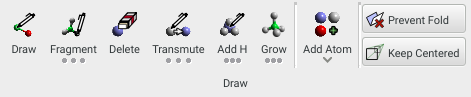
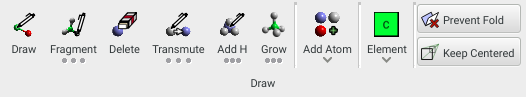
Added buckytube example, and updated build panel.

diff --git a/doc/95.examples/buckytube/buckytube.md b/doc/95.examples/buckytube/buckytube.md
@@ -1,0 +1,232 @@
+---
+title: Buckytube Builder
+brief: Script to generate graphene tubes
+taxonomy:
+  category: docs
+  example: [scripting, building, dialogs]
+visible: true
+template: manpage
+docroot: /aten/docs
+header_class: alt
+---
+
+The script below generates a graphene tube (a "Buckytube", if you will) of some user-defined length and radius. We'll walk through each of the sections of the script in turn (the script is presented in its entirety at the end of the page, and can be found in the example scripts directory included with **Aten**).
+
+## Defining User Options
+
+```aten
+# Create an options dialog
+void createDefaultDialog(Dialog ui)
+{
+        Widget w;
+
+        # Set title and vertical automatic filling of main dialog layout
+        ui.title = "Bucky Tubulator";
+
+	# Basic controls
+	ui.verticalFill = TRUE;
+	ui.addIntegerSpin("nBenzeneSpin", "Number of benzenes around circumference", 4, 1000, 1, 10);
+	ui.addIntegerSpin("nStacksSpin", "Number of stacks along tube length", 1, 1000, 1, 10);
+	ui.addDoubleSpin("bondLengthSpin", "Benzene C-C bond length", 0.1, 100.0, 0.01, 1.39);
+	ui.addCheck("createModelCheck", "Create new model", 1);
+}
+```
+
+Firstly, before we do anything else, we define a function called [`createDefaultDialog()`](/aten/docs/scripting/commands/messaging#createdefaultdialog) which sets up a few controls that will allow the user to control the dimensions of the generated tube. The name of this function is important, since it is one that **Aten** looks for in each script to determine if a general options dialog is present (see [Creating User Dialogs](/aten/docs/topics/dialogs) for more information). We define a couple of 'spin boxes' that will give control over the number of benzene subunits along the length and circumference of the tube, as well as allow the C-C bond length used to be changed. Finally, a checkbox gives the option to create a new model to contain the generated tube (or just to add it to the current model).
+
+## Show the Options
+
+Defining the options and their controls is one thing, but they must be presented to the user! This is achieved by calling the [`showDefaultDialog()`](/aten/docs/scripting/commands/messaging#showdefaultdialog) function, which shows the controls defined in the [`createDefaultDialog()`](/aten/docs/scripting/commands/messaging#createdefaultdialog) function above.
+
+Once shown, and if accepted, we then proceed to extract the necessary control values into some local variables we will use in the rest of the script. First, we get the reference to the dialog itself by calling the [`defaultDialog()`](/aten/docs/scripting/commands/messaging#defaultdialog) and then grab the other values we need, simply by calling the relevent `as*()` function of the dialog, and giving the name of the control from which we want to extract (and convert) the value.
+
+```aten
+# Show (execute) the dialog to allow user interaction.
+# The function returns 0 for 'canceled' or '1' for 'ok'
+if (!showDefaultDialog()) error("Dialog canceled.\n");
+
+# Get widget values
+Dialog ui = defaultDialog();
+int nbenz = ui.asInteger("nBenzeneSpin");
+int nstacks = ui.asInteger("nStacksSpin");
+double rcc = ui.asDouble("bondLengthSpin");
+```
+
+## Preparation
+
+Before we start creating our tube, we'll declare some variables and, if it was requested, create a new model for the tube to live in. Since we have made it an option whether to use the current model or create a new one, we use a [**Model**](/aten/docs/scripting/variabletypes/model) to store the reference to the target, and call all the drawing functions through it instead of using the global functions (see [Building Commands](/aten/docs/scripting/commands/building)).
+
+```aten
+int loop, benz;
+Atom hAtom;
+
+// Calculate rotation increment around circumference
+double dz = 360.0/(nbenz*2.0)
+
+# Create / get target model
+Model targetModel;
+if (ui.asInteger("createModelCheck")) targetModel = newModel("BuckyTube");
+else targetModel = aten.frame;
+if (!targetModel) error("No valid target model.\n");
+
+# Clear the current selection, ready for the main loop
+targetModel.selectNone();
+```
+
+## Main Loop
+
+We finally get to the main loop that will create our atoms. The tube is constructed by drawing one ring of 'zig-zagged' atoms at a time, then moving a step along the tube and rotating about z before drawing the next ring. The offset so created naturally forms the benzene motifs we need.
+
+Checks are made to see if we are at either extreme end of the tube, in which case a terminating hydrogen atom is bonded on to the associated carbon.
+
+```aten
+# Outer loop - loop over stacks
+for (loop=0; loop <= nstacks; ++loop)
+{
+	# Inner loop - loop over benzene molecules
+	for (benz=0; benz<nbenz; ++benz)
+	{
+		# If at beginning of tube, draw terminating H
+		if ((loop == 0) || (loop == nstacks))
+		{
+			targetModel.movePen(0, 0, -1);
+			targetModel.select(targetModel.newAtom(H));
+			targetModel.movePen(0, 0, 1);
+		}
+
+		# Draw and select first carbon
+		targetModel.select(targetModel.newAtom(C));
+
+		# Rotate pen and move around circumference
+		targetModel.movePen(rcc*cos(30), 0.0, rcc*sin(30));
+		targetModel.rotatePenZ(dz);
+
+		# If at end of tube, draw terminating H
+		if (loop == nstacks)
+		{
+			targetModel.movePen(0, 0, 1);
+			targetModel.select(targetModel.newAtom(H));
+			targetModel.movePen(0, 0, -1);
+		}
+
+		# Draw and select second carbon
+		targetModel.select(targetModel.newAtom(C));
+
+		# Rotate pen and move around circumference
+		targetModel.movePen(rcc*cos(30), 0, -rcc*sin(30));
+		targetModel.rotatePenZ(dz);
+	}
+	
+	# Move pen along tube length, and one step around circumference to offset next layer
+	targetModel.movePen(0, 0, rcc*1.5);
+	targetModel.movePen(rcc*cos(30), 0, 0);
+	targetModel.rotatePenZ(dz);
+}
+```
+
+## Cleanup
+
+To tidy up, we centre the current selection of atoms (which is every atom we have just drawn) at {0,0,0} and calculate bonding within that selection (since we did not draw any bonds along the way, only atoms).
+
+```aten
+# Centre the selection, rebond and augment
+targetModel.centreSelection(0.0, 0.0, 0.0);
+targetModel.rebondSelection();
+```
+
+![Bucktube Generator](buckytube.png){.imgfull}
+
+## Full Script
+
+File: [buckytube.txt](./buckytube.txt)
+
+```aten
+# Create an options dialog
+void createDefaultDialog(Dialog ui)
+{
+        Widget w;
+
+        # Set title and vertical automatic filling of main dialog layout
+        ui.title = "Bucky Tubulator";
+
+	# Basic controls
+	ui.verticalFill = TRUE;
+	ui.addIntegerSpin("nBenzeneSpin", "Number of benzenes around circumference", 4, 1000, 1, 10);
+	ui.addIntegerSpin("nStacksSpin", "Number of stacks along tube length", 1, 1000, 1, 10);
+	ui.addDoubleSpin("bondLengthSpin", "Benzene C-C bond length", 0.1, 100.0, 0.01, 1.39);
+	ui.addCheck("createModelCheck", "Create new model", 1);
+}
+
+# Show (execute) the dialog to allow user interaction.
+# The function returns 0 for 'canceled' or '1' for 'ok'
+if (!showDefaultDialog()) error("Dialog canceled.\n");
+
+# Get widget values
+Dialog ui = defaultDialog();
+int nbenz = ui.asInteger("nBenzeneSpin");
+int nstacks = ui.asInteger("nStacksSpin");
+double rcc = ui.asDouble("bondLengthSpin");
+
+int loop, benz;
+Atom hAtom;
+
+// Calculate rotation increment around circumference
+double dz = 360.0/(nbenz*2.0)
+
+# Create / get target model
+Model targetModel;
+if (ui.asInteger("createModelCheck")) targetModel = newModel("BuckyTube");
+else targetModel = aten.frame;
+if (!targetModel) error("No valid target model.\n");
+
+# Clear the current selection, ready for the main loop
+targetModel.selectNone();
+
+# Outer loop - loop over stacks
+for (loop=0; loop <= nstacks; ++loop)
+{
+	# Inner loop - loop over benzene molecules
+	for (benz=0; benz<nbenz; ++benz)
+	{
+		# If at beginning of tube, draw terminating H
+		if ((loop == 0) || (loop == nstacks))
+		{
+			targetModel.movePen(0, 0, -1);
+			targetModel.select(targetModel.newAtom(H));
+			targetModel.movePen(0, 0, 1);
+		}
+
+		# Draw and select first carbon
+		targetModel.select(targetModel.newAtom(C));
+
+		# Rotate pen and move around circumference
+		targetModel.movePen(rcc*cos(30), 0.0, rcc*sin(30));
+		targetModel.rotatePenZ(dz);
+
+		# If at end of tube, draw terminating H
+		if (loop == nstacks)
+		{
+			targetModel.movePen(0, 0, 1);
+			targetModel.select(targetModel.newAtom(H));
+			targetModel.movePen(0, 0, -1);
+		}
+
+		# Draw and select second carbon
+		targetModel.select(targetModel.newAtom(C));
+
+		# Rotate pen and move around circumference
+		targetModel.movePen(rcc*cos(30), 0, -rcc*sin(30));
+		targetModel.rotatePenZ(dz);
+	}
+	
+	# Move pen along tube length, and one step around circumference to offset next layer
+	targetModel.movePen(0, 0, rcc*1.5);
+	targetModel.movePen(rcc*cos(30), 0, 0);
+	targetModel.rotatePenZ(dz);
+}
+
+# Centre the selection, rebond and augment
+targetModel.centreSelection(0.0, 0.0, 0.0);
+targetModel.rebondSelection();
+```
+

diff --git a/doc/40.gui/10.build/build.md b/doc/40.gui/10.build/build.md
@@ -66,6 +66,10 @@ The **Grow** tool allows individual atoms of the current [**Element**](/aten/doc
 
 Allows addition of atoms into the current model at specific normal or fractional coordinates.
 
+### Element
+
+The **Element** button allows specification of the element for newly-created atoms by selection from the periodic table.
+
 ### Prevent Fold
 
 When transforming atoms in a periodic system with the mouse (i.e. rotating or translating them) if any move outside the unit cell as a result of the transformation they are automatically folded back in to the confines of the cell. If **Prevent Fold** is enabled these folding operations will not occur.
@@ -73,18 +77,6 @@ When transforming atoms in a periodic system with the mouse (i.e. rotating or tr
 ### Keep Centered
 
 If the **Keep Centred** option is enabled, any editing operation will trigger a 're-centering' of the current model, so that the centre-of-geometry of the model being edited is always at the origin. This can be useful when editing non-periodic models, and keeps everything nice and centered on the screen.
-
-## Element Group <a id="element"></a>
-
-![Element Group](element.png){.imgfull}
-
-### Table
-
-The **Table** button allows specification of the element for newly-created atoms by selection from the periodic table (by long-pressing). **Table** is mutually-exclusive with **Common**.
-
-### Common
-
-The **Common** button allows specification of the element for newly-created atoms from a pre-defined list of 'common' elements, and can be configured as necessary through the [Preferences](/aten/docs/gui/prefs). **Common** is mutually-exclusive with **Table**.
 
 ## Bonding Group <a id="bonding"></a>
 
